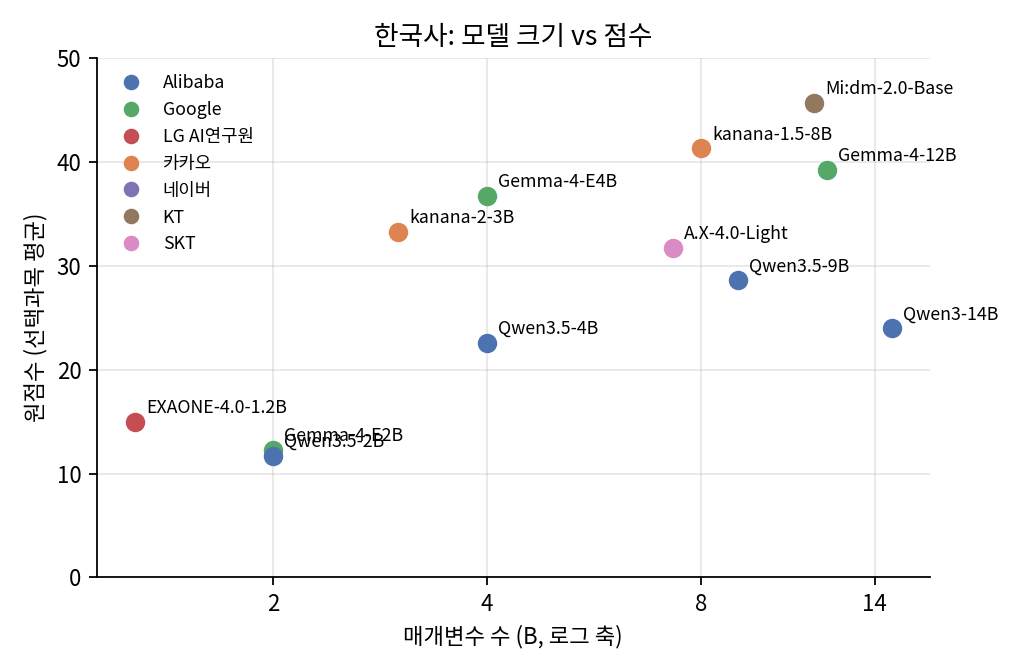
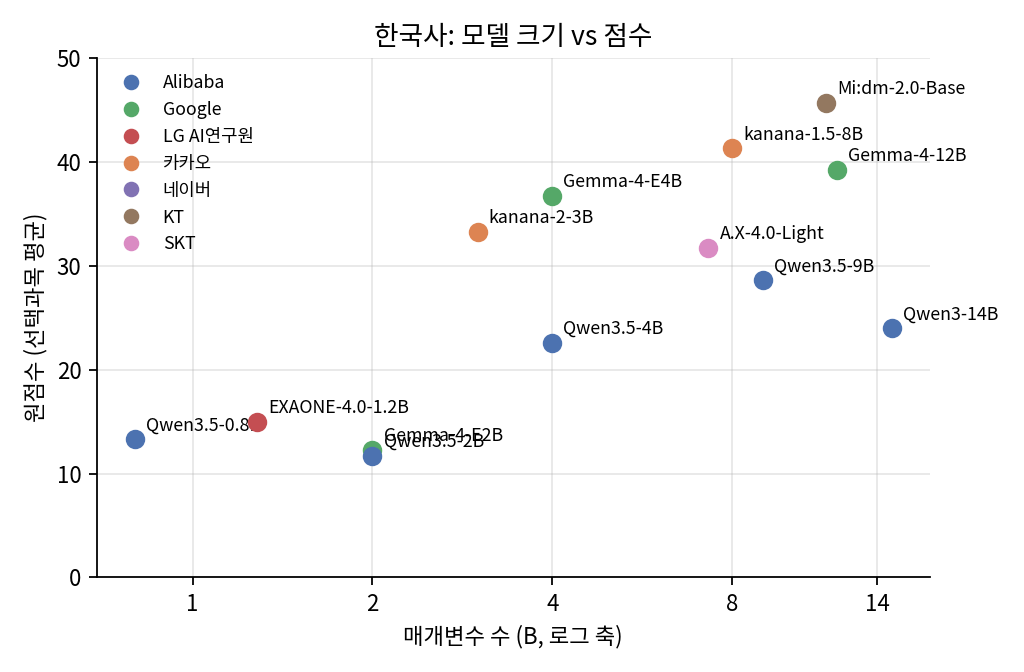
Update results (67 runs)

diff --git a/README.md b/README.md
@@ -15,7 +15,7 @@
 - **국어가 수학보다 어렵다.** 2B 이상 모델 기준으로 국어 정답률이 수학보다 평균 12%p 낮다. 2,000–4,000자 길이의 지문을 읽고 선택지 사이의 미묘한 차이를 가려내는 일이 작은 모델에게는 계산보다 어렵다.
 - **국산 모델**: HyperCLOVAX-SEED 0.5B(국어 18점, 수학 19점, 영어 28점), EXAONE-4.0-1.2B(국어 31점, 수학 75점, 영어 63점, 한국사 15점), kanana-2-3B(국어 34점, 수학 39점, 영어 74점, 한국사 33점), A.X-4.0-Light(국어 49점, 수학 56점, 영어 83점, 한국사 32점), kanana-1.5-8B(국어 45점, 수학 42점, 영어 83점, 한국사 41점), Mi:dm-2.0-Base(국어 44점, 수학 54점, 영어 82점, 한국사 46점).
 
-> 마지막 업데이트: 2026-11-20 09:59 KST. 평가가 진행되는 동안 모델 하나가 끝날 때마다 이 페이지가 자동으로 갱신된다.
+> 마지막 업데이트: 2026-11-20 10:01 KST. 평가가 진행되는 동안 모델 하나가 끝날 때마다 이 페이지가 자동으로 갱신된다.
 
 ## 왜 소형 모델인가
 
@@ -89,7 +89,7 @@
 | 모델 | 개발사 | 매개변수(B) | 실행 가능 기기 | 국어(화작) | 국어(언매) | 수학(확통) | 수학(미적) | 수학(기하) | 영어 | 한국사 <sub>(50점)</sub> | 생활과 윤리 <sub>(50점)</sub> | 윤리와 사상 <sub>(50점)</sub> | 경제 <sub>(50점)</sub> | 정치와 법 <sub>(50점)</sub> | 사회·문화 <sub>(50점)</sub> |
 |---|---|---|---|---|---|---|---|---|---|---|---|---|---|---|---|
 | HyperCLOVAX-SEED 0.5B | 네이버 | 0.57 | 보급형 스마트폰 | 18.0 <sub>(13–25)</sub> | 18.0 <sub>(16–19)</sub> | 17.5 <sub>(14–21)</sub> | 21.3 <sub>(17–24)</sub> | 18.0 <sub>(15–21)</sub> | 28.1 <sub>(25–30)</sub> | — | — | — | — | — | — |
-| Qwen3.5-0.8B | 알리바바 | 0.8 | 보급형 스마트폰 | 24.4 <sub>(18–32)</sub> | 22.9 <sub>(20–28)</sub> | 36.5 <sub>(35–39)</sub> | 36.3 <sub>(33–39)</sub> | 33.5 <sub>(31–36)</sub> | 57.0 <sub>(53–62)</sub> | — | — | — | — | — | — |
+| Qwen3.5-0.8B | 알리바바 | 0.8 | 보급형 스마트폰 | 24.4 <sub>(18–32)</sub> | 22.9 <sub>(20–28)</sub> | 36.5 <sub>(35–39)</sub> | 36.3 <sub>(33–39)</sub> | 33.5 <sub>(31–36)</sub> | 57.0 <sub>(53–62)</sub> | 13.3 <sub>(10–19)</sub> | — | — | — | — | — |
 | EXAONE-4.0-1.2B | LG AI연구원 | 1.28 | 보급형 스마트폰 | 31.2 <sub>(28–35)</sub> | 31.5 <sub>(27–35)</sub> | 77.6 <sub>(70–82)</sub> | 72.9 <sub>(63–82)</sub> | 73.5 <sub>(71–78)</sub> | 62.7 <sub>(61–64)</sub> | 15.0 <sub>(13–18)</sub> | 19.9 <sub>(11–28)</sub> | 7.3 <sub>(3–10)</sub> | 15.1 <sub>(14–17)</sub> | 13.7 <sub>(7–21)</sub> | 13.5 <sub>(12–16)</sub> |
 | Gemma-4-E2B | 구글 | 2.0 | 중급 스마트폰 | 67.9 <sub>(64–71)</sub> | 61.2 <sub>(59–63)</sub> | 75.0 <sub>(72–80)</sub> | 73.0 <sub>(69–77)</sub> | 76.3 <sub>(76–77)</sub> | 79.9 <sub>(78–83)</sub> | 12.3 <sub>(10–14)</sub> | 28.3 <sub>(22–33)</sub> | 12.3 <sub>(9–14)</sub> | 24.0 <sub>(21–27)</sub> | 12.7 <sub>(12–14)</sub> | 10.0 <sub>(9–12)</sub> |
 | Qwen3.5-2B | 알리바바 | 2.0 | 보급형 스마트폰 | 33.6 <sub>(31–36)</sub> | 37.7 <sub>(34–42)</sub> | 64.7 <sub>(63–66)</sub> | 59.9 <sub>(56–65)</sub> | 62.1 <sub>(61–63)</sub> | 79.7 <sub>(78–81)</sub> | 11.7 <sub>(10–14)</sub> | 20.3 <sub>(17–23)</sub> | 15.7 <sub>(14–17)</sub> | 15.1 <sub>(14–17)</sub> | 12.9 <sub>(10–15)</sub> | 15.5 <sub>(12–18)</sub> |
@@ -161,7 +161,7 @@
 | 모델 | 국어 정제 후 / 형식 엄수 / 형식 위반 / 잘림 / 평균 토큰 | 수학 정제 후 / 형식 엄수 / 형식 위반 / 잘림 / 평균 토큰 | 영어 정제 후 / 형식 엄수 / 형식 위반 / 잘림 / 평균 토큰 | 한국사 정제 후 / 형식 엄수 / 형식 위반 / 잘림 / 평균 토큰 | 사회탐구 정제 후 / 형식 엄수 / 형식 위반 / 잘림 / 평균 토큰 |
 |---|---|---|---|---|---|
 | HyperCLOVAX-SEED 0.5B | 0.18 / 0.09 / 0.50 / 0.10 / 946 | 0.20 / 0.10 / 0.59 / 0.09 / 1165 | 0.30 / 0.23 / 0.41 / 0.10 / 1116 | — | — |
-| Qwen3.5-0.8B | 0.23 / 0.14 / 0.46 / 0.46 / 12622 | 0.37 / 0.28 / 0.59 / 0.54 / 13733 | 0.58 / 0.54 / 0.18 / 0.18 / 9809 | — | — |
+| Qwen3.5-0.8B | 0.23 / 0.14 / 0.46 / 0.46 / 12622 | 0.37 / 0.28 / 0.59 / 0.54 / 13733 | 0.58 / 0.54 / 0.18 / 0.18 / 9809 | 0.25 / 0.22 / 0.18 / 0.20 / 9089 | — |
 | EXAONE-4.0-1.2B | 0.30 / 0.29 / 0.04 / 0.01 / 1520 | 0.72 / 0.70 / 0.18 / 0.14 / 6924 | 0.64 / 0.61 / 0.06 / 0.00 / 1123 | 0.29 / 0.27 / 0.13 / 0.03 / 1631 | 0.29 / 0.28 / 0.03 / 0.01 / 2341 |
 | Gemma-4-E2B | 0.59 / 0.58 / 0.00 / 0.00 / 1897 | 0.71 / 0.71 / 0.00 / 0.00 / 3471 | 0.81 / 0.81 / 0.00 / 0.00 / 1278 | 0.25 / 0.25 / 0.00 / 0.00 / 1140 | 0.37 / 0.37 / 0.00 / 0.00 / 1870 |
 | Qwen3.5-2B | 0.34 / 0.29 / 0.23 / 0.25 / 12221 | 0.63 / 0.59 / 0.37 / 0.37 / 10424 | 0.81 / 0.81 / 0.04 / 0.05 / 7274 | 0.24 / 0.18 / 0.27 / 0.27 / 10510 | 0.32 / 0.28 / 0.21 / 0.21 / 10868 |
